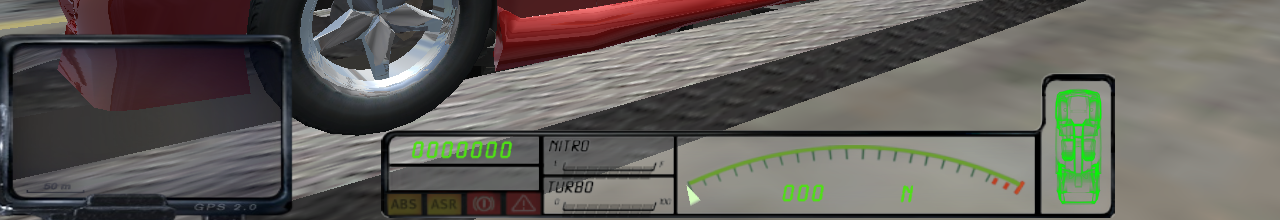
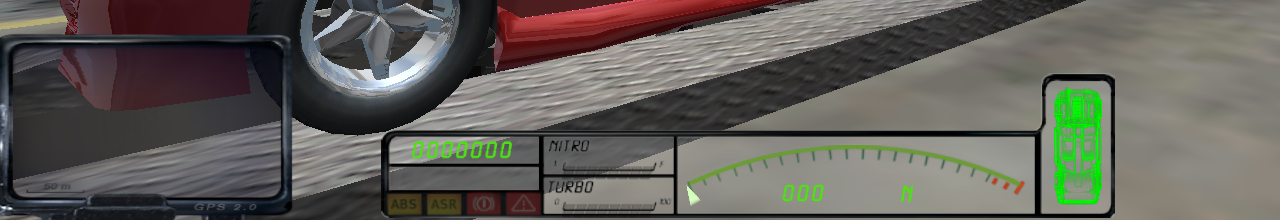
Restore stock damage indicator blips

diff --git a/src/render/bgfx_osd.cpp b/src/render/bgfx_osd.cpp
@@ -609,8 +609,21 @@ void LibBgfxBackend::draw_vehicle_hud(const VehicleHudState& hud) {
         color = 0xff000000u | (red << 16) | (green << 8);
       }
       const float y = override.defined ? item.position[1] : stock_y(i);
-      draw(*mesh, start, 4, quad, 6, x, y,
-           sy * pixel_aspect, sy, 0, p[0], p[1], color);
+      if (damage) {
+        // The stock font stores the car outline and its damage blips as
+        // separate glyphs in one shared coordinate system. Draw the complete
+        // assembly so the engine, wheels, skirts and body sections are visible.
+        for (const unsigned char part : "AELOTabcdhlpqrtuv") {
+          if (!part) continue;
+          const size_t part_start = size_t(part) * 4;
+          if ((part_start + 4) * 3 > mesh->positions.size()) continue;
+          draw(*mesh, part_start, 4, quad, 6, x, y,
+               sy * pixel_aspect, sy, 0, p[0], p[1], color);
+        }
+      } else {
+        draw(*mesh, start, 4, quad, 6, x, y,
+             sy * pixel_aspect, sy, 0, p[0], p[1], color);
+      }
       continue;
     }
     if (slot == HudSlot::Rpm || slot == HudSlot::Speed ||
